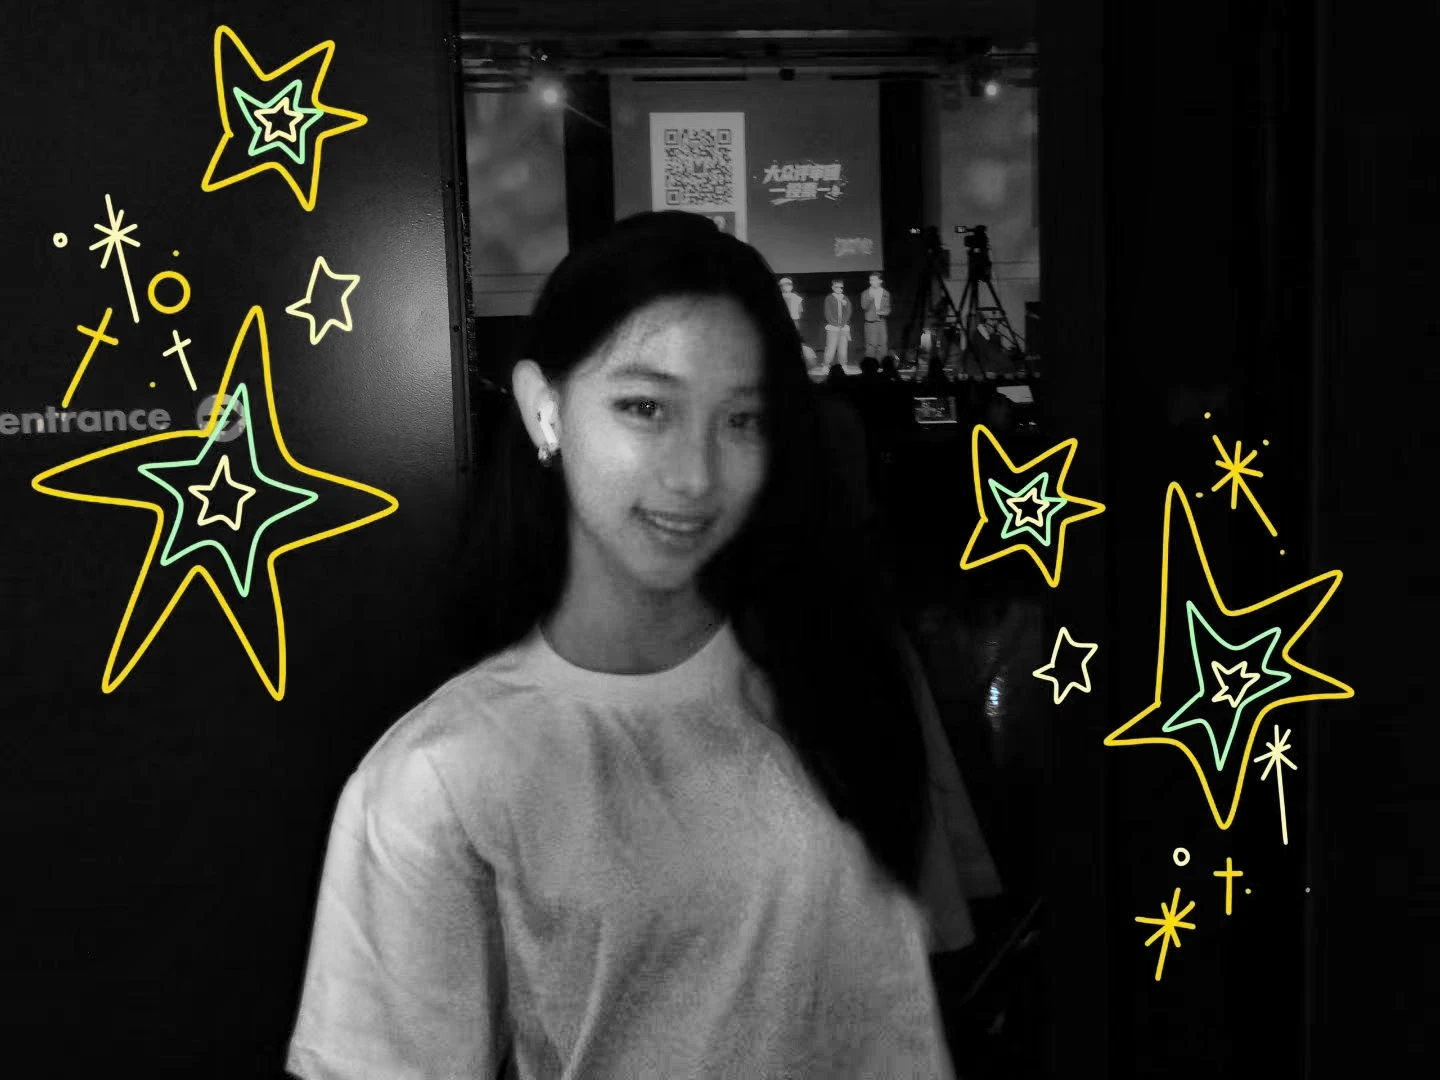
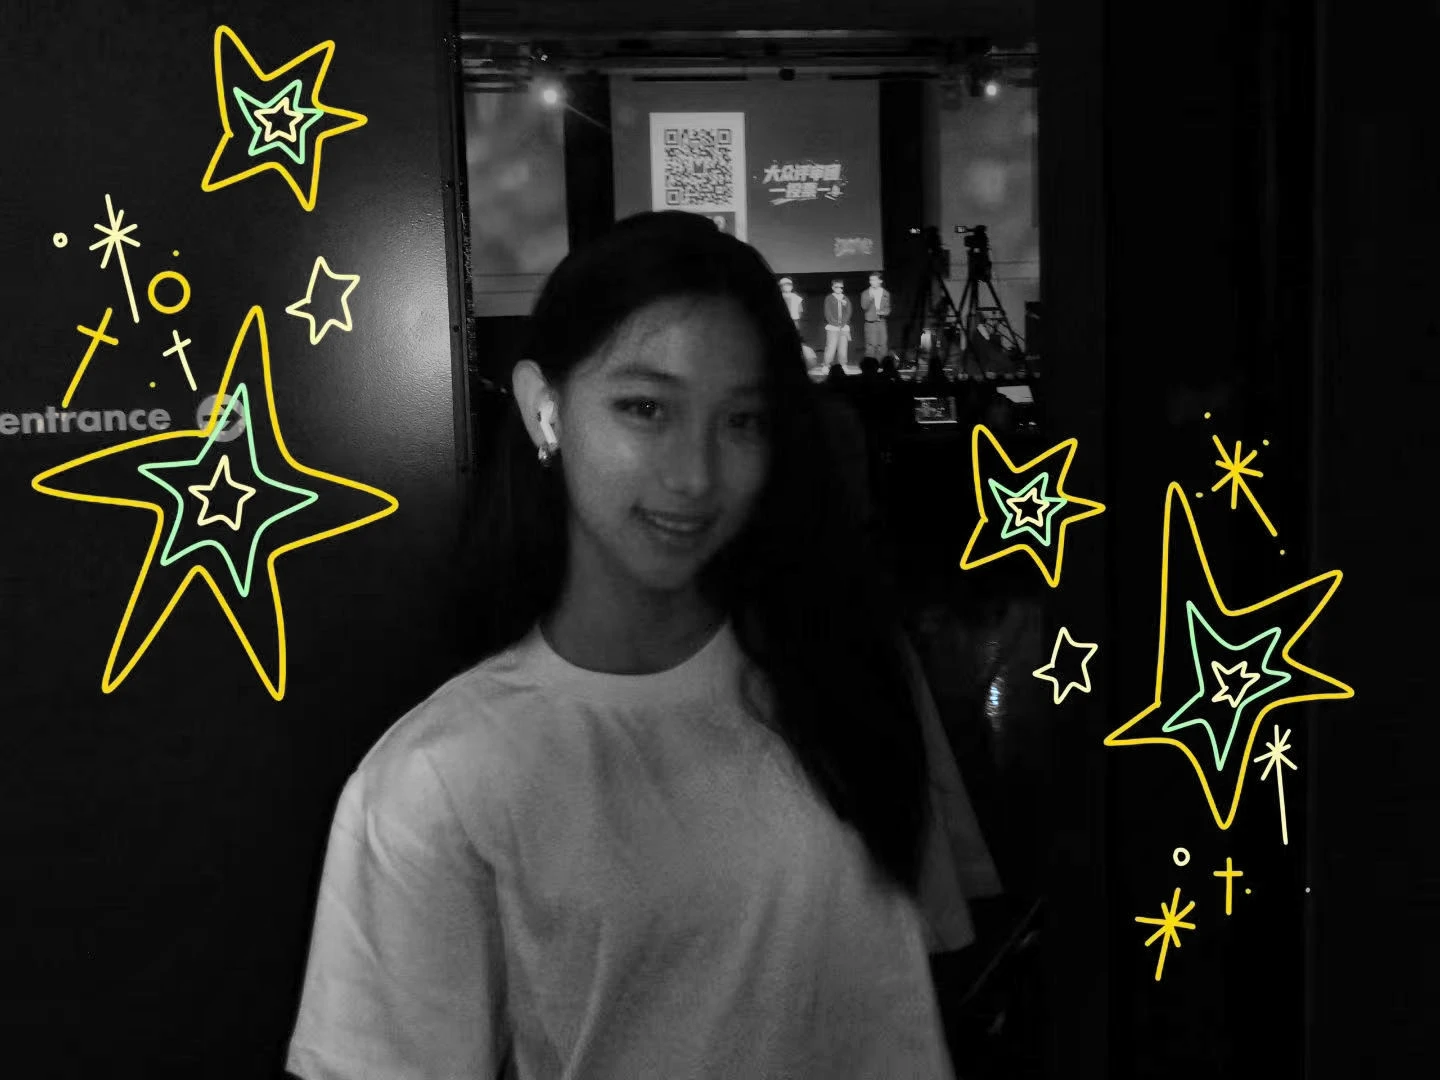
Experiment hero: full-bleed photo, gentler black and white, one-line heading

diff --git a/components/experiment/experiment-hero.tsx b/components/experiment/experiment-hero.tsx
@@ -5,8 +5,9 @@ import { useCallback, useEffect, useRef, useState, type MouseEvent, type ReactNo
 import { cn } from "@/lib/utils";
 import heroStars from "@/lib/experiment-hero-stars.json";
 
-// Experiment greeting: the photo on the left (the person in high-contrast black and white, the star doodles in
-// their own colour), the heading on the right. Clicking a star gives it a small, soft yellow glow; clicking it
+// Experiment greeting: the photo full-bleed on the left (the person in black and white, the star doodles in their
+// own colour), the heading on the right. The photo keeps its 4:3 shape and runs edge to edge: flush with the
+// left of the window and the top and bottom of the section, so it is never cropped and no stars are lost. Clicking a star gives it a small, soft yellow glow; clicking it
 // again turns the glow off.
 //
 // The photo and the star layers come from tools/experiment_hero_photo.py. Each star group is its own transparent
@@ -91,8 +92,8 @@ export function ExperimentHero({ children }: { children: ReactNode }) {
   };
 
   return (
-    <section className="relative flex min-h-[100svh] w-full items-center px-6 pb-24 pt-28 md:px-10 md:pb-20">
-      <div className="mx-auto grid w-full max-w-[1274px] items-center gap-10 md:grid-cols-[minmax(0,1.15fr)_minmax(0,1fr)] md:gap-14 lg:gap-20">
+    <section className="relative w-full pb-24 md:pb-0">
+      <div className="grid w-full items-center md:grid-cols-[62%_minmax(0,1fr)]">
         <div
           ref={frame}
           onClick={onClick}
@@ -100,7 +101,7 @@ export function ExperimentHero({ children }: { children: ReactNode }) {
           onMouseLeave={() => setOverStar(false)}
           data-cursor-hover={overStar ? "" : undefined}
           className={cn(
-            "relative aspect-[4/3] w-full overflow-hidden rounded-[24px] border border-white/10 bg-black select-none",
+            "relative aspect-[4/3] w-full overflow-hidden bg-black select-none",
             overStar && "cursor-pointer",
           )}
         >
@@ -109,7 +110,7 @@ export function ExperimentHero({ children }: { children: ReactNode }) {
             alt="Sihan at an event entrance, in black and white, with yellow and mint star doodles drawn around her"
             fill
             preload
-            sizes="(max-width: 768px) 100vw, 680px"
+            sizes="(max-width: 768px) 100vw, 62vw"
             className="object-cover"
             draggable={false}
           />
@@ -133,9 +134,10 @@ export function ExperimentHero({ children }: { children: ReactNode }) {
             />
           ))}
         </div>
-        <div>{children}</div>
+        <div className="px-6 pt-10 md:px-10 md:pt-0 lg:px-14">{children}</div>
       </div>
-      <span className="font-gilroy absolute bottom-8 left-1/2 z-10 -translate-x-1/2 text-[12px] uppercase tracking-[0.35em] text-white/30">
+      {/* Under the text column on desktop, so it doesn't sit on the photo */}
+      <span className="font-gilroy absolute bottom-8 left-1/2 z-10 -translate-x-1/2 text-[12px] md:left-[81%] uppercase tracking-[0.35em] text-white/30">
         Scroll
       </span>
     </section>

diff --git a/app/experiment/page.tsx b/app/experiment/page.tsx
@@ -209,7 +209,7 @@ export default function ExperimentPage() {
             </p>
           </Reveal>
           <Reveal delay={0.05}>
-            <h1 className="font-blinker text-[clamp(44px,6.4vw,96px)] font-bold leading-[0.95] tracking-[-0.02em]">
+            <h1 className="font-blinker whitespace-nowrap text-[clamp(34px,9.5vw,52px)] font-bold leading-[0.95] tracking-[-0.02em] md:text-[clamp(32px,3.9vw,76px)]">
               So nice to meet u!
             </h1>
           </Reveal>
